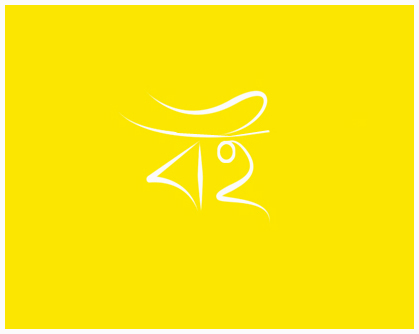
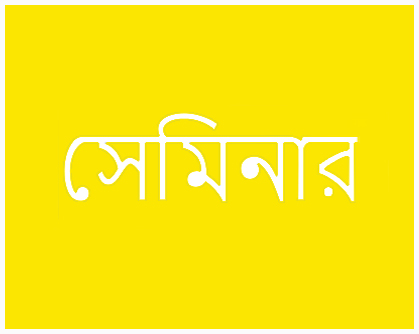
seminar ok

Changed region(s): [[0.1551, 0.2695, 0.8687, 0.6587]]

diff --git a/show_seminar/data.php b/show_seminar/data.php
@@ -6,19 +6,22 @@ $books_name;
 $author_name;
 $var=$_GET['num'];
 $data="";
-$sql="select book_id, book_name, book_author, Image from book limit ".$var;
+$sql="select  * from seminar;";
 $ch_image;
 
 $result = mysqli_query($con,$sql);
 
 while($obj=mysqli_fetch_object($result)){
-$books_name = $obj->book_name;
-$author_name = $obj->book_author;
-$ch_image=$obj->Image;
-$book_id=$obj->book_id;
+$seminar_id=$obj->id;
+$seminar_name = $obj->name;
+$seminar_subject = $obj->subject;
+$seminar_speaker=$obj->speaker;
+$seminar_place=$obj->place;
+$seminar_date=$obj->seminar_date;
+$seminar_audience=$obj->audience;
 
 
-$data=$data."<li><a href=\"project-detail-page.php?data=".$book_id."\"><img src=".$image."><div class=\"overlay\"><summary><h2>".$books_name."</h2><h3>".$author_name."</h3></summary><><div class=\"loves\"><span>77</span></div></div></a></li>";
+$data=$data."<li><a href=\"project-detail-page.php?data=".$seminar_id."\"><img src="."default.jpg"."><div class=\"overlay\"><summary><h2>".$seminar_name."</h2><h3>".$seminar_place."</h3><h3>".$seminar_date."</h3></summary><><div class=\"loves\"><span>77</span></div></div></a></li>";
 
 
 if($var==0)break;
